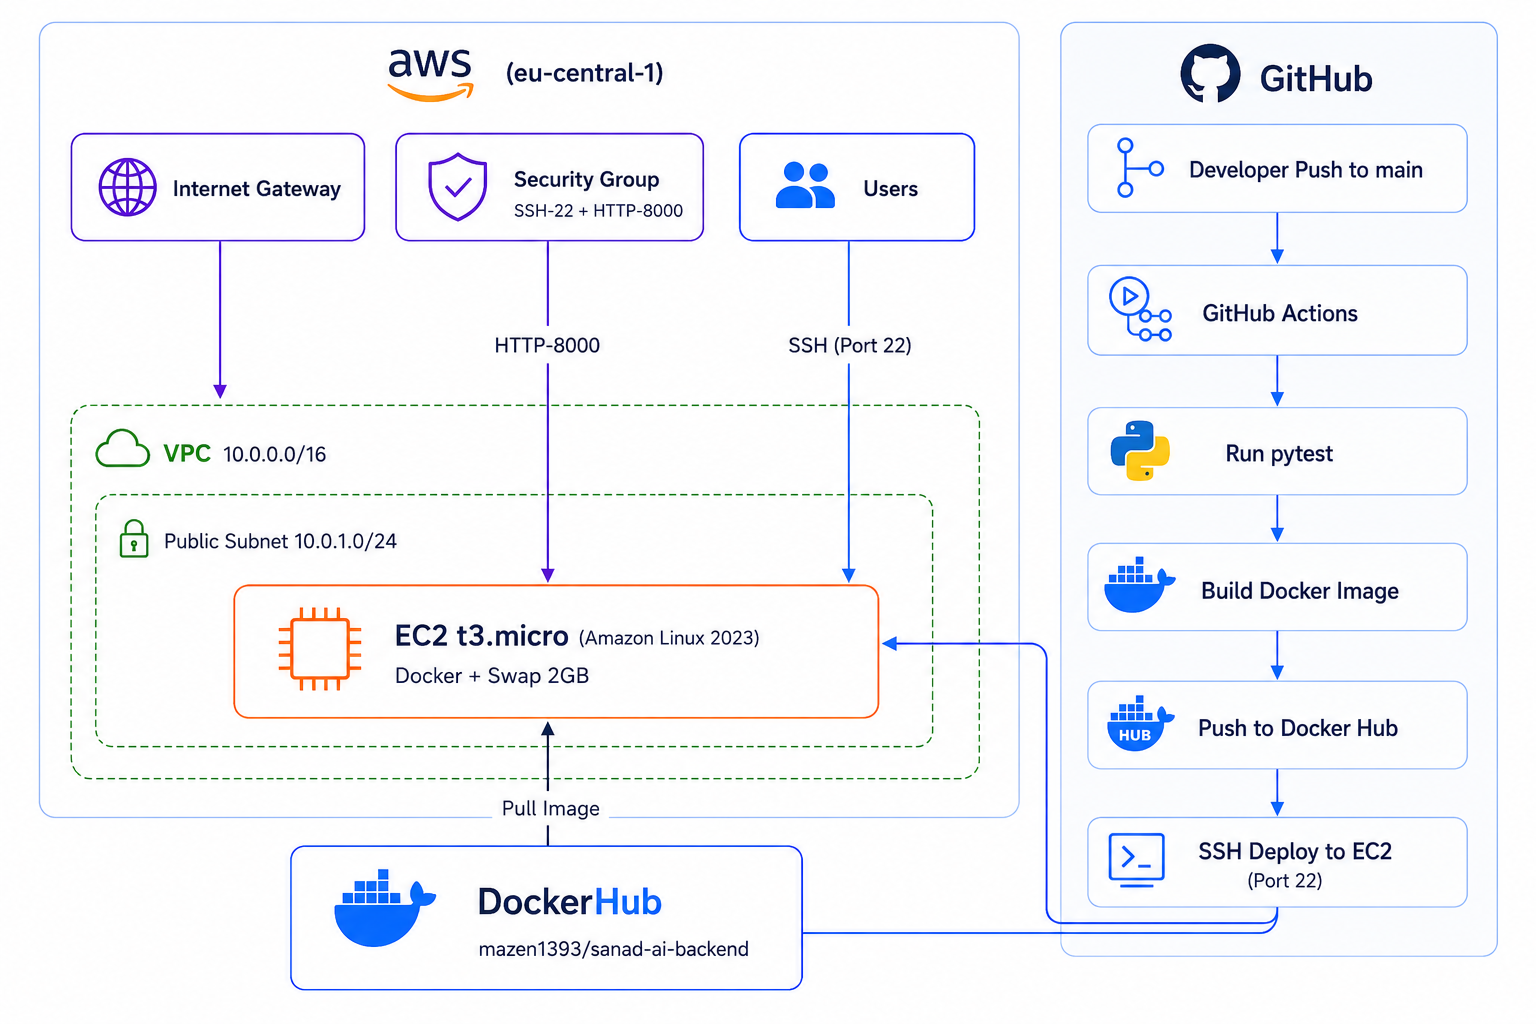
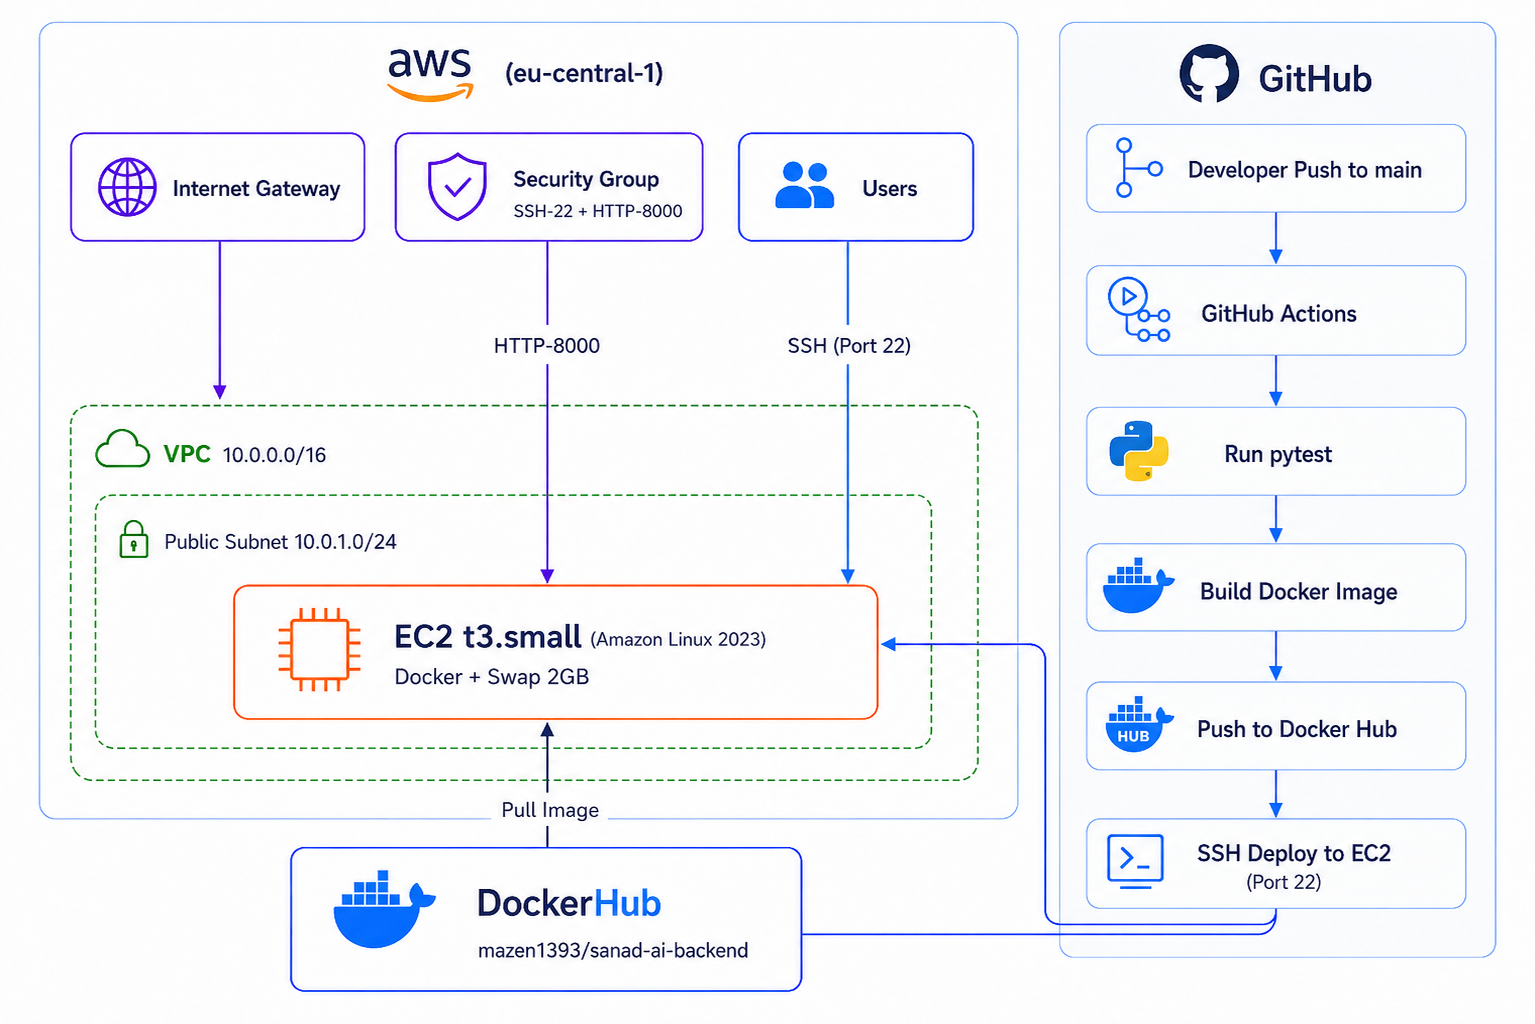
feat: upgrade EC2 instance to t3.small and add Terraform configuration variables

diff --git a/README.md b/README.md
@@ -358,7 +358,7 @@ The infrastructure is modularized into three separate components:
    * Open Ingress Ports: **22** (SSH for CI/CD updates) and **8000** (FastAPI HTTP web traffic).
    * Egress: Allows all outbound traffic for dynamic ML artifact downloading from Hugging Face.
 3. **Compute Module (`terraform/modules/compute`)**:
-   * Provisions an **EC2 `t3.micro`** instance (running Amazon Linux 2023).
+   * Provisions an **EC2 `t3.small`** instance (running Amazon Linux 2023).
    * Installs **Docker** and registers the container as a system service.
    * Creates and mounts a **2 GB Swap File** (this allows the backend to handle ONNX model extraction and first-time Hugging Face downloads on standard free-tier/low-memory RAM configurations without getting out-of-memory killed).
 
